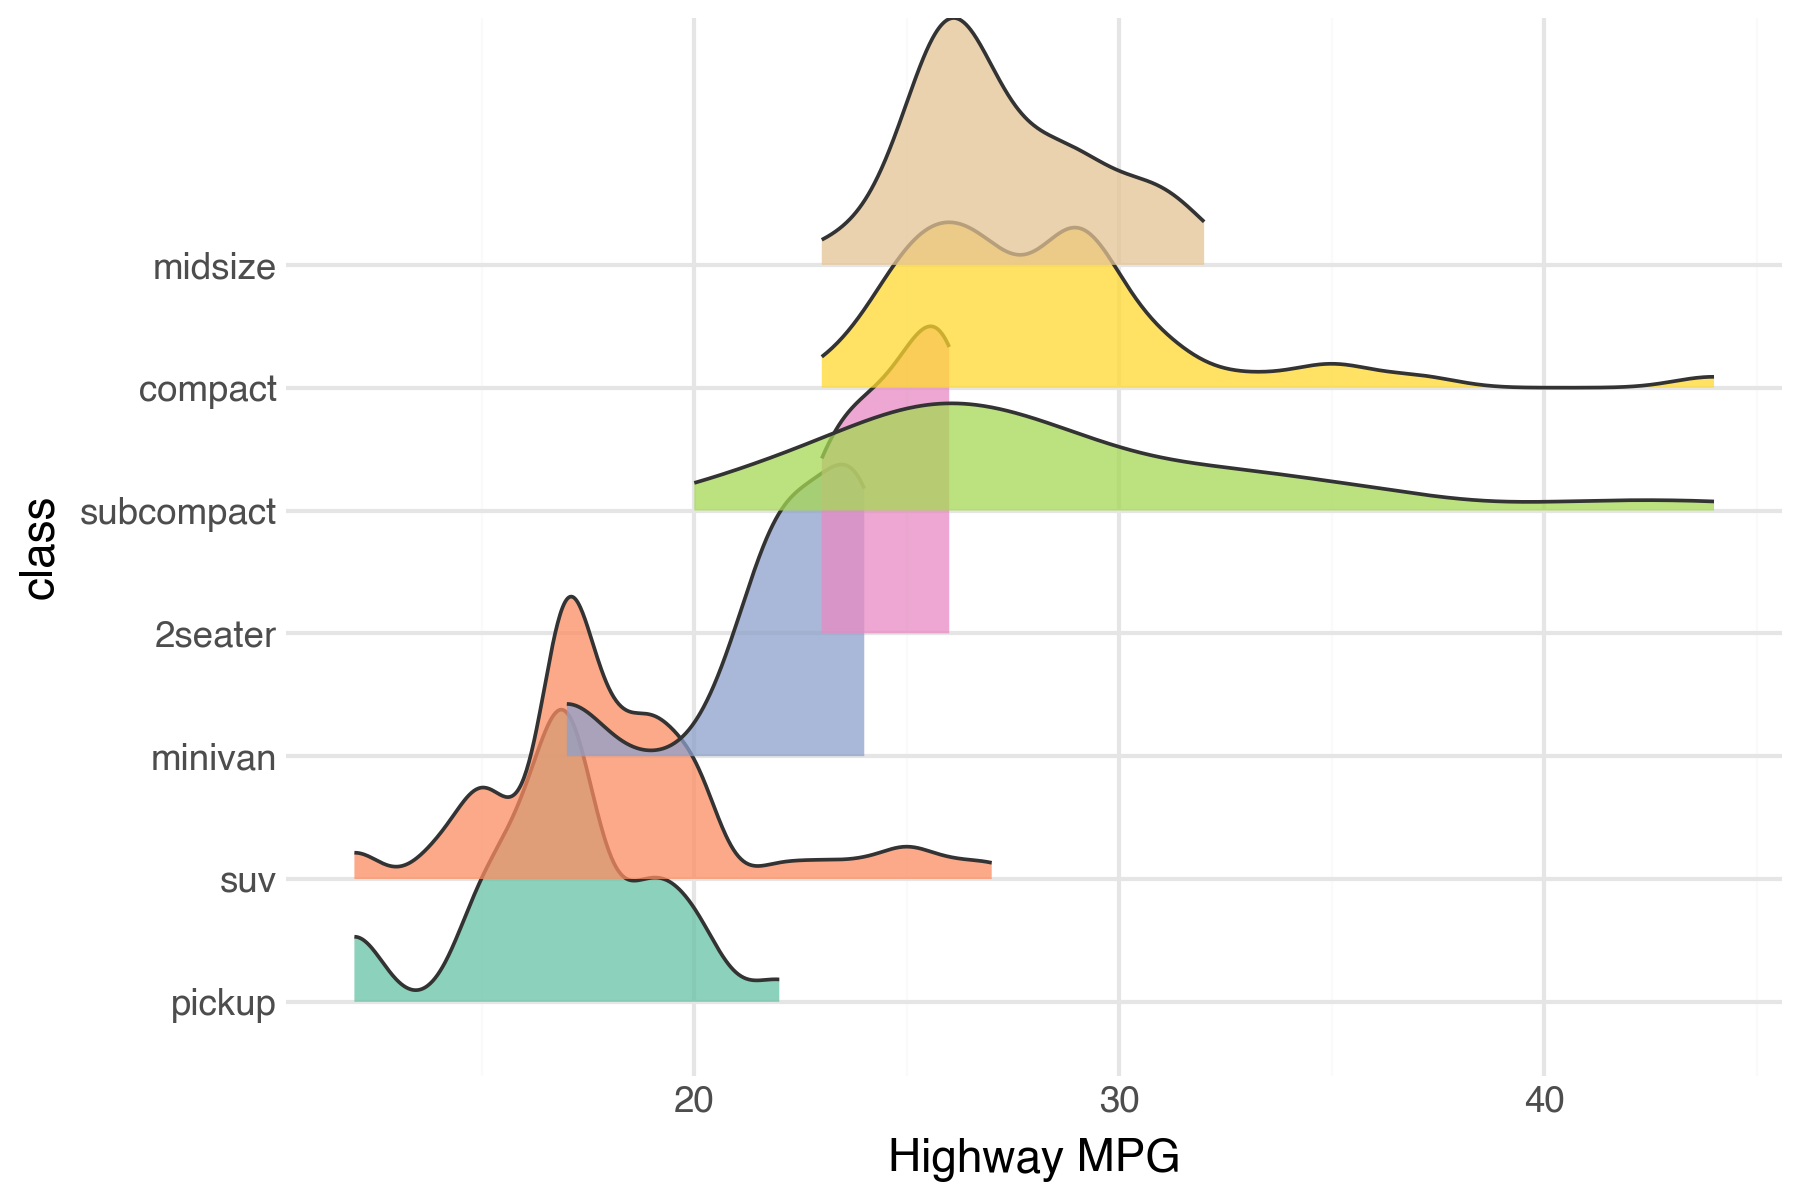
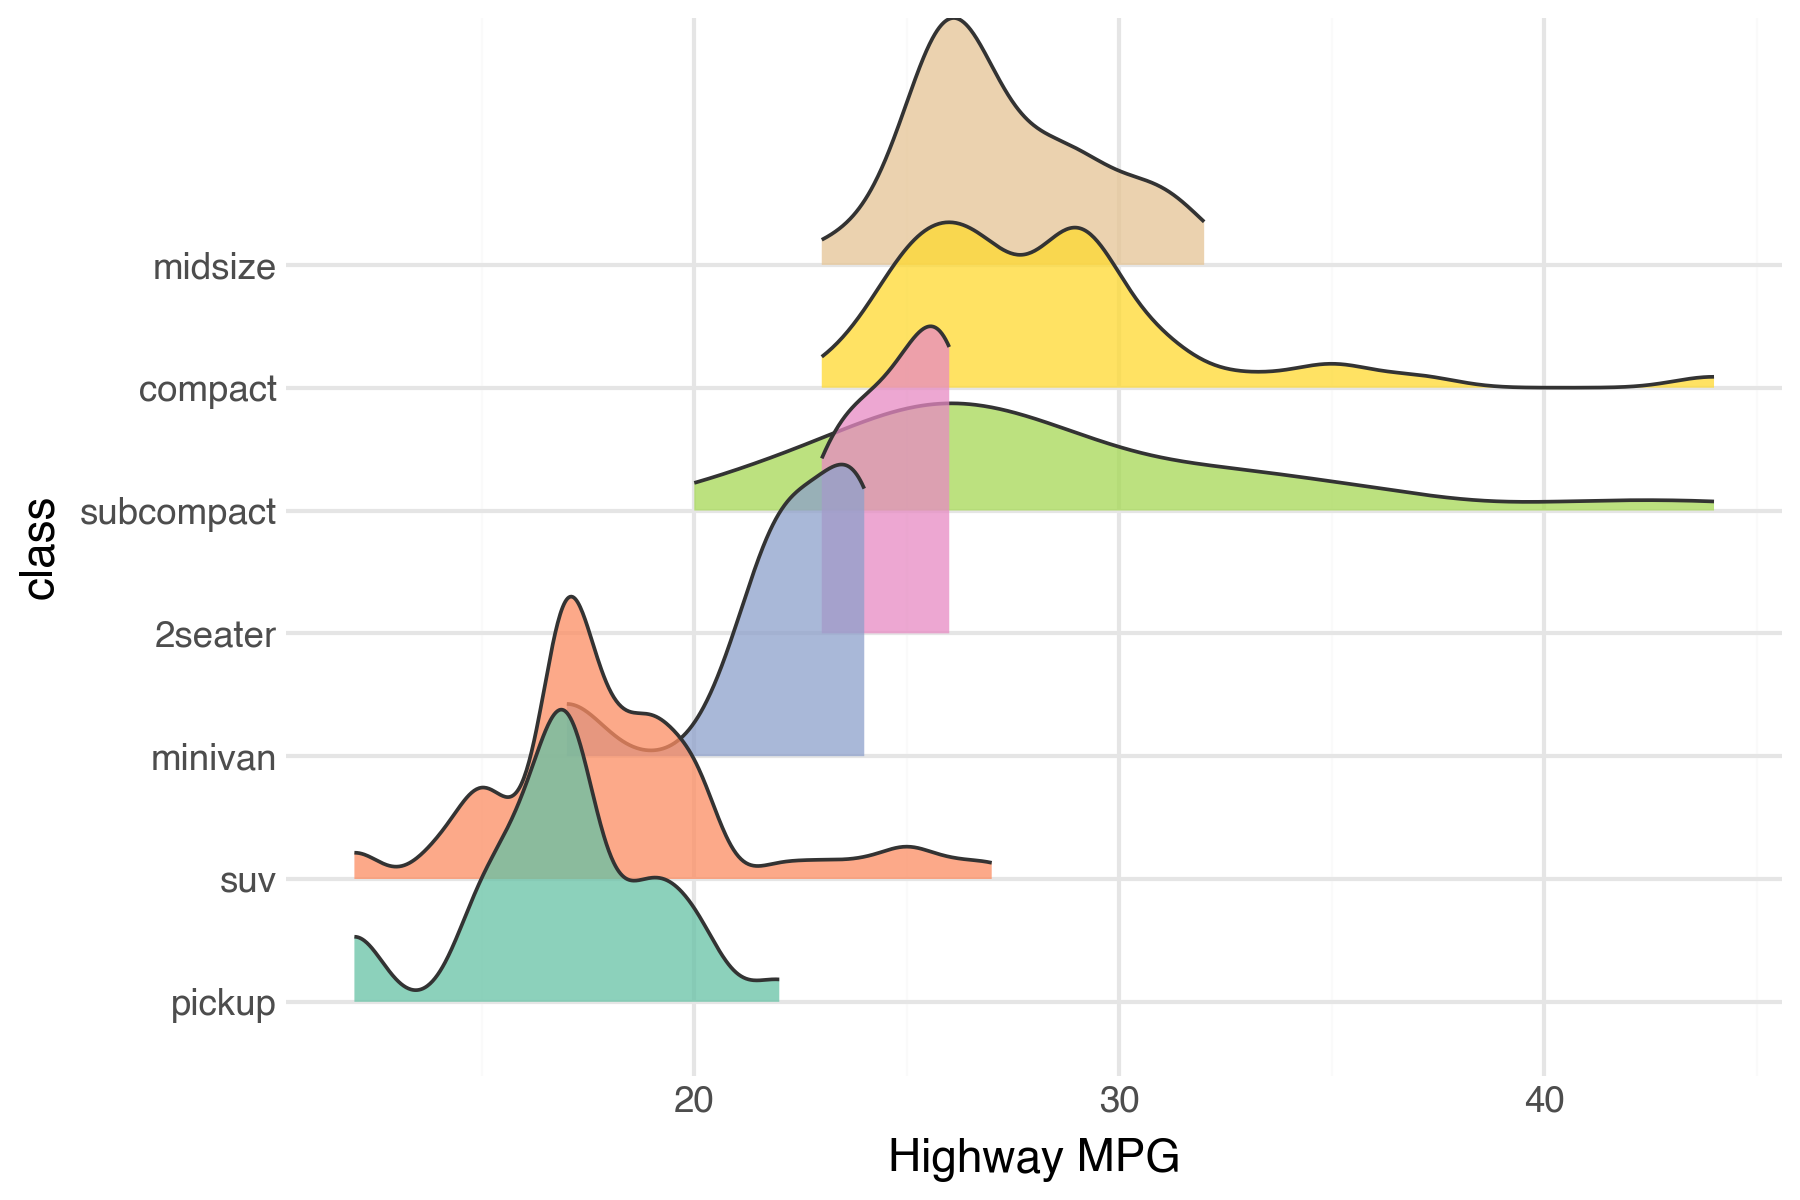
Fix z-order: draw ridges bottom-to-top so lower categories appear in front

Changed region(s): [[0.4356, 0.2775, 0.5289, 0.5242], [0.2489, 0.5858, 0.4044, 0.74], [0.4978, 0.185, 0.6222, 0.2467]]

diff --git a/src/ridgenine/geom_ridgeline.py b/src/ridgenine/geom_ridgeline.py
@@ -1,6 +1,6 @@
 from __future__ import annotations
 
-from typing import TYPE_CHECKING
+from typing import TYPE_CHECKING, Any
 
 import pandas as pd
 
@@ -9,7 +9,10 @@ from plotnine.geoms.geom_polygon import geom_polygon
 from plotnine.geoms.geom_ribbon import geom_ribbon
 
 if TYPE_CHECKING:
-    pass
+    from matplotlib.axes import Axes
+
+    from plotnine.coords.coord import coord
+    from plotnine.iapi import panel_view
 
 
 class geom_ridgeline(geom_ribbon):
@@ -73,6 +76,26 @@ class geom_ridgeline(geom_ribbon):
         data.loc[mask, "ymax"] = data.loc[mask, "ymin"]
 
         return data
+
+    def draw_panel(
+        self,
+        data: pd.DataFrame,
+        panel_params: panel_view,
+        coord: coord,
+        ax: Axes,
+        **params: Any,
+    ) -> None:
+        # Draw groups from highest y to lowest y so that the bottom-most
+        # ridge is painted last and appears in front — matching ggridges behaviour.
+        y_order = (
+            data.groupby("group")["y"]
+            .mean()
+            .sort_values(ascending=False)
+            .index
+        )
+        for group in y_order:
+            group_data = data[data["group"] == group]
+            self.draw_group(group_data, panel_params, coord, ax, self.params)
 
     def handle_na(self, data: pd.DataFrame) -> pd.DataFrame:
         # Preserve all rows — baseline continuity matters for fill rendering

diff --git a/tests/test_geom_ridgeline.py b/tests/test_geom_ridgeline.py
@@ -1,3 +1,5 @@
+from unittest.mock import call, patch
+
 import numpy as np
 import pandas as pd
 import pytest
@@ -86,6 +88,29 @@ class TestSetupData:
         g = geom_ridgeline()
         g.setup_data(df)
         assert set(df.columns) == original_cols
+
+
+class TestDrawOrder:
+    def test_lowest_y_group_drawn_last(self):
+        """draw_panel iterates groups from highest y to lowest y."""
+        from unittest.mock import MagicMock
+
+        df = _make_ridge_df(y_vals=[1.0, 2.0, 3.0])
+        df["group"] = df["y"].map({1.0: 1, 2.0: 2, 3.0: 3})
+        df = geom_ridgeline().setup_data(df)
+
+        draw_order = []
+
+        # Stub out draw_group — just record which y value each call received
+        def recording(data, panel_params, coord, ax, params):
+            draw_order.append(round(data["y"].iloc[0], 1))
+
+        g = geom_ridgeline()
+        with patch.object(geom_ridgeline, "draw_group", staticmethod(recording)):
+            g.draw_panel(df, MagicMock(), MagicMock(), MagicMock())
+
+        # Highest y (3.0) first, lowest y (1.0) last (drawn on top)
+        assert draw_order == [3.0, 2.0, 1.0]
 
 
 class TestHandleNa:
